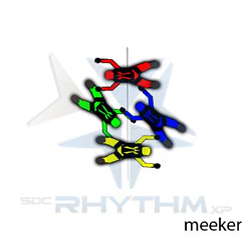
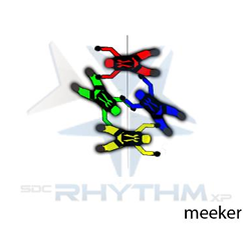
Fix margins on phone

diff --git a/templates/Remove12PixelsFromTopOfImage.py b/templates/Remove12PixelsFromTopOfImage.py
@@ -1,0 +1,31 @@
+import os
+from PIL import Image
+
+# --- Configuration ---
+SourceFolder = r"C:\Users\GB\Desktop\Original Randoms"
+TargetFolder = r"C:\Users\GB\Desktop\RandomsCropped"
+CropTop = 12  # pixels to remove from the top
+
+# --- Ensure target folder exists ---
+os.makedirs(TargetFolder, exist_ok=True)
+
+# --- Process each image ---
+for filename in os.listdir(SourceFolder):
+    if filename.lower().endswith(('.png', '.jpg', '.jpeg', '.bmp', '.gif', '.webp')):
+        src_path = os.path.join(SourceFolder, filename)
+        dst_path = os.path.join(TargetFolder, filename)
+
+        # Open the image
+        with Image.open(src_path) as img:
+            width, height = img.size
+
+            # Define crop box: (left, upper, right, lower)
+            crop_box = (0, CropTop, width, height)
+            cropped = img.crop(crop_box)
+
+            # Save to destination folder
+            cropped.save(dst_path)
+            print(f"Cropped {filename} -> saved to {dst_path}")
+
+print("\n✅ Done! All images cropped and saved to:", TargetFolder)
+input("Press Enter to exit...")
